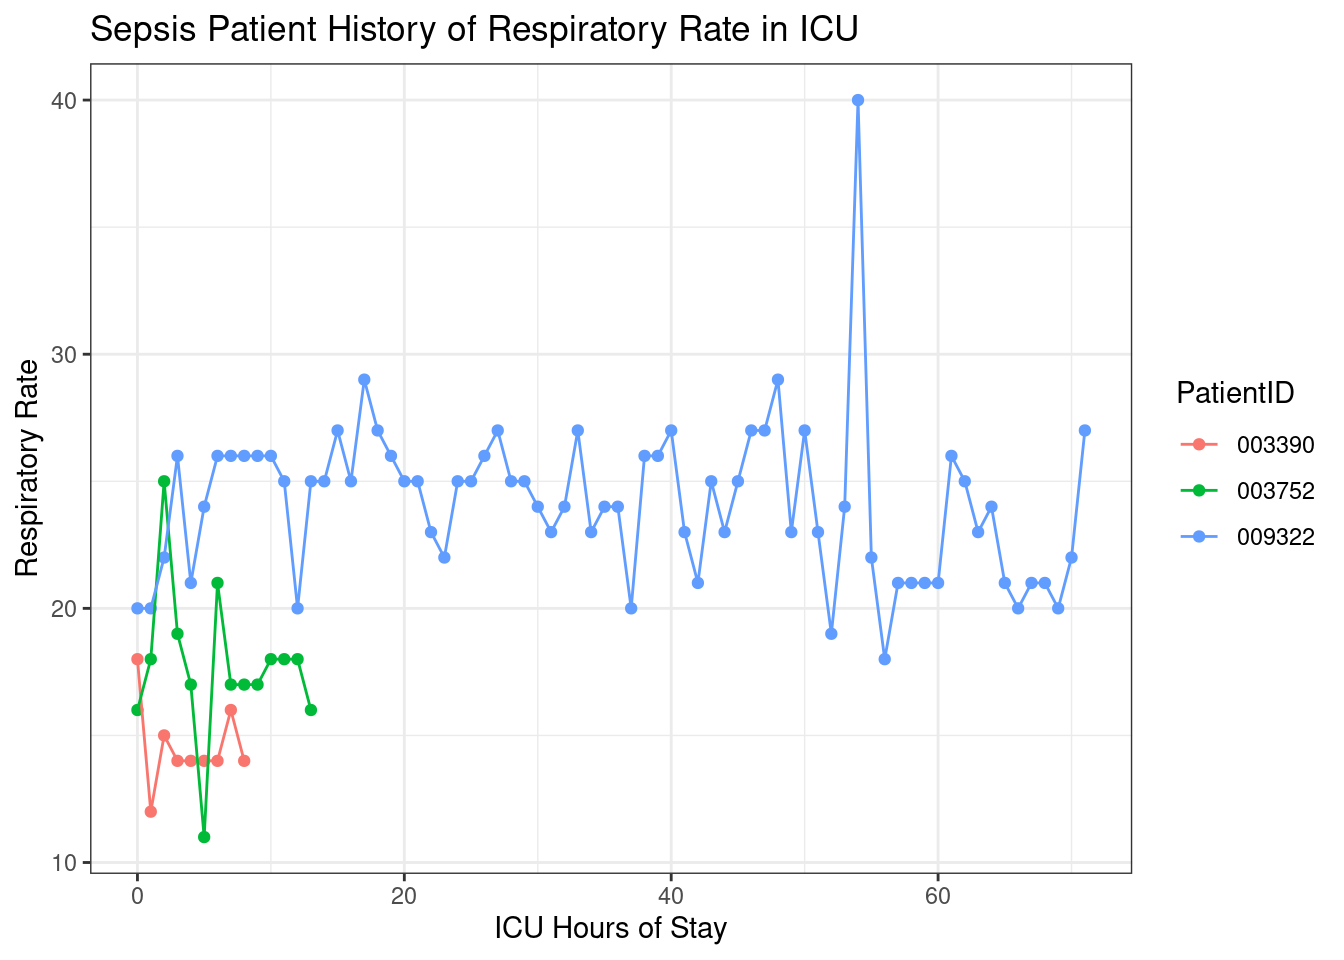
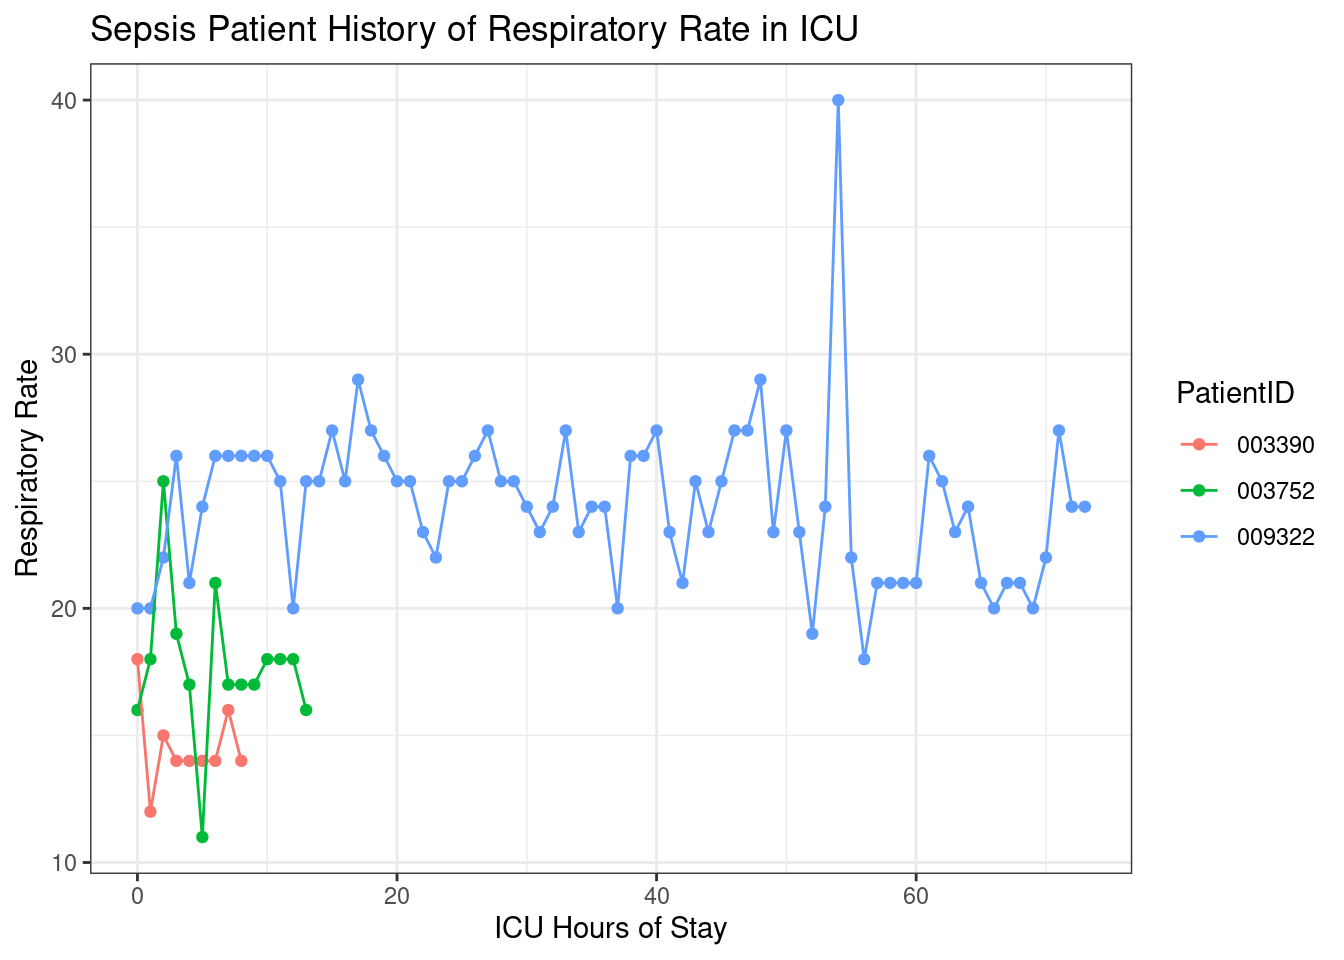
Updated report

diff --git a/A7.html b/A7.html
@@ -63,7 +63,7 @@ ul.task-list li input[type="checkbox"] {
 
 </header>
 
-<p>Report Last run 2023-04-11 21:10:46</p>
+<p>Report Last run 2023-04-11 22:10:59</p>
 <div class="cell">
 
 </div>
@@ -72,7 +72,7 @@ ul.task-list li input[type="checkbox"] {
 </div>
 <section id="task-4-make-an-icu-status-report" class="level1">
 <h1>Task 4: Make an ICU status report</h1>
-<p>This report was generated on 2023-04-11 21:10:49.</p>
+<p>This report was generated on 2023-04-11 22:11:01.</p>
 <div class="cell">
 <div class="cell-output-display">
 
@@ -104,10 +104,10 @@ ul.task-list li input[type="checkbox"] {
   </tr>
   <tr>
    <td style="text-align:left;"> 009322 </td>
-   <td style="text-align:right;"> 71 </td>
-   <td style="text-align:right;"> 136 </td>
-   <td style="text-align:right;"> NA </td>
-   <td style="text-align:right;"> 27 </td>
+   <td style="text-align:right;"> 73 </td>
+   <td style="text-align:right;"> 107 </td>
+   <td style="text-align:right;"> 35.83 </td>
+   <td style="text-align:right;"> 24 </td>
   </tr>
 </tbody>
 </table>
